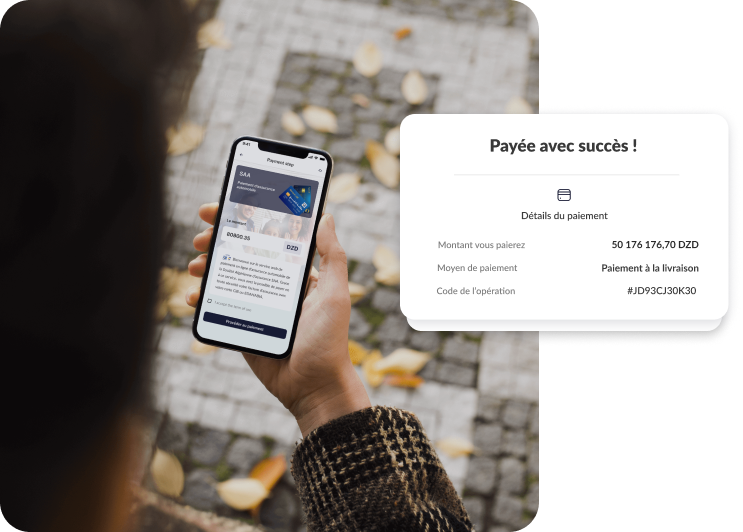
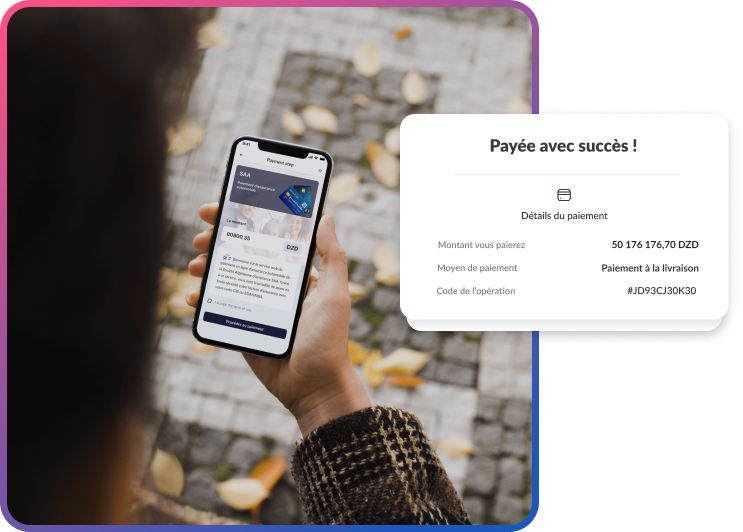
chore(WhySaa): update the ui

Changed region(s): [[0.0, 0.0, 0.7429, 1.0], [0.712, 0.0301, 0.7429, 0.2105]]

diff --git a/components/WhySaa.vue b/components/WhySaa.vue
@@ -20,12 +20,16 @@ const cards = [
         <div
           v-for="i, idx in cards" :key="idx"
           class="relative rounded-7 lg:flex lg:items-center lg:justify-between lg:bg-white lg:shadow-[0px_4px_25px_0px_#181B3412]"
-          :class=" idx === 1 && 'flex-row-reverse'"
+          :class="idx === 1 && 'flex-row-reverse'"
         >
           <div class="lg:max-w-1/2 lg:px-22 lg:py-17">
-            <h3 class="text-sm font-bold text-[#1C57BC] lg:text-3xl">
+            <h3 class="text-sm font-bold lg:text-3xl">
               {{ i.title }}
             </h3>
+            <div
+              class="absolute mt-4 h-px w-3/4 border-b border-white border-dashed bg-[#EC5189]"
+              :class="idx === 1 ? 'right-0' : 'left-0'"
+            />
             <p class="mt-4 text-justify text-xs lg:mt-12 lg:text-xl">
               {{ i.subtitle }}
             </p>
@@ -33,8 +37,6 @@ const cards = [
 
           <div class="2xl:my--20 2xl:px-0 2xl:py-0 lg:px-22 lg:py-17">
             <div class="relative">
-              <img v-if="idx === 0" class="absolute -right-4 -top-4 lg:top-1/4 lg:scale-200 lg:-left-30 lg:-rotate-110" src="/red-arrow.svg" alt="arrow">
-              <img v-if="idx === 1" class="absolute -right-4 -top-13 2xl:bottom-20 lg-top-auto lg:bottom-10 lg:rotate-230 lg:scale-110" src="/black-arrow.svg" alt="arrow">
               <img
                 class="mt-5 h-full w-full object-contain lg:mt-0"
                 :src="i.img"
@@ -48,15 +50,9 @@ const cards = [
   </section>
 </template>
 
-<style>
-.underline-decorator {
-  background: url("/underline-decorator2.svg") no-repeat bottom / contain;
-}
-</style>
-
 <i18n lang="yaml">
 fr:
-  title: Pourquoi l’assurance <span class="underline-decorator">digitale SAA</span>
+  title: Pourquoi l’assurance <span class="underline-gradient">digitale SAA</span>
   item1:
     title: Une transparence totale sur vos garanties et le coût de votre assurance.
     subtitle: Nous sommes convaincus que l'assurance ne doit plus être un sujet opaque. Avec SAA, tout est enfin clair et transparent. Fini les mauvaises surprises, nous vous aidons à comprendre très simplement vos garanties et le coût de votre assurance. C'est vous qui choisissez ce que vous couvrez ou ne couvrez pas.
